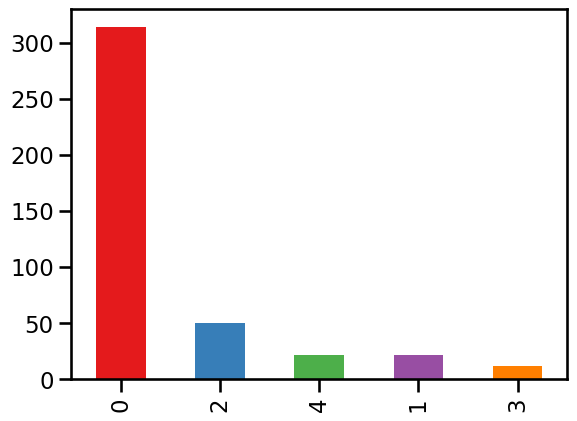
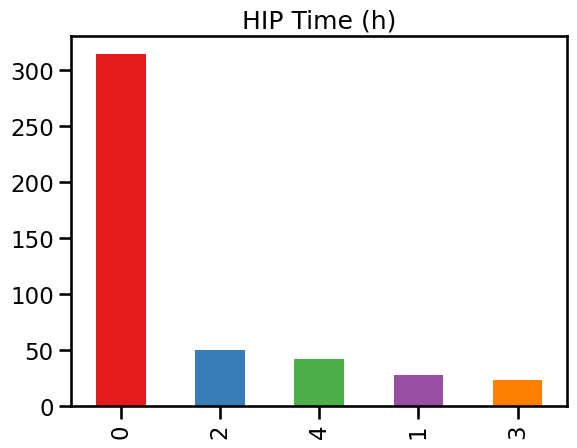
updated directory

diff --git a/exercises/GAN.py b/exercises/GAN.py
@@ -1,4 +1,5 @@
-from exercises.data_preparation import load_complete_data
+from exercises.data_preparation import load_complete_data, load_data
+from sklearn.preprocessing import MaxAbsScaler
 import tensorflow as tf
 import numpy as np
 import pandas as pd
@@ -7,10 +8,8 @@ import pandas as pd
 def make_generator_model(input_shape):
     model = tf.keras.Sequential([
         tf.keras.layers.Input(shape=input_shape),
-        tf.keras.layers.Dense(256, activation='relu', activity_regularizer='l2'),
-        tf.keras.layers.Dropout(0.3),
-        tf.keras.layers.Dense(256, activation='relu', activity_regularizer='l2'),
-        tf.keras.layers.Dropout(0.3),
+        tf.keras.layers.Dense(256, activation='relu'),
+        tf.keras.layers.Dense(256, activation='relu'),
         tf.keras.layers.Dense(input_shape[0], activation='relu')])
 
     return model
@@ -19,13 +18,14 @@ def make_discriminator_model(input_shape):
 
     model = tf.keras.Sequential([
         tf.keras.layers.Input(shape=input_shape),
-        tf.keras.layers.Dense(256, activation='relu', activity_regularizer='l2'),
+        tf.keras.layers.Dense(256, activation='relu'),
         tf.keras.layers.Dropout(0.3),
-        tf.keras.layers.Dense(256, activation='relu', activity_regularizer='l2'),
+        tf.keras.layers.Dense(256, activation='relu'),
         tf.keras.layers.Dropout(0.3),
         tf.keras.layers.Dense(1)])
 
     return model
+
 
 cross_entropy = tf.keras.losses.BinaryCrossentropy(from_logits=True)
 
@@ -38,50 +38,61 @@ def discriminator_loss(real_output, fake_output):
 def generator_loss(fake_output):
     return cross_entropy(tf.ones_like(fake_output), fake_output)
 
+def generate_synthetic_data(number_of_alloys=1000, prop='tot', epochs=2000):
 
-props = ['YieldStr(MPa)', 'Ductility (%)', 'Hardness (HV)']
-prop_ind = 0
-X, y, Z = load_complete_data()
-elem_col = X.columns
+    if prop == 'tot':
+        prop = ['YieldStr(MPa)', 'Ductility (%)', 'Hardness (HV)']
+        X, y, Z = load_complete_data()
+    else:
+        X, y, Z = load_data(col=prop)
+    elem_col = X.columns
+    other_cols = Z.columns
 
-y_max = y.max()
-y = y/y_max
+    y_max = y.max()
+    y = y/y_max
 
-X = pd.concat([X, y], axis=1)
-input_shape = X.shape[1:]
+    Z_max = Z.max()
+    Z_scaled = Z/Z_max
 
-generator = make_generator_model(input_shape)
-discriminator = make_discriminator_model(input_shape)
+    X = pd.concat([X, y, Z_scaled], axis=1)
+    input_shape = X.shape[1:]
 
-generator_optimizer = tf.keras.optimizers.Adam(1e-4)
-discriminator_optimizer = tf.keras.optimizers.Adam(1e-4)
+    generator = make_generator_model(input_shape)
+    discriminator = make_discriminator_model(input_shape)
 
-data = X.values.copy()
+    generator_optimizer = tf.keras.optimizers.Adam(1e-4)
+    discriminator_optimizer = tf.keras.optimizers.Adam(1e-4)
 
-for epoch in range(2000):
-    noise = np.random.random(data.shape)
+    data = X.values.copy()
 
-    with tf.GradientTape() as gen_tape, tf.GradientTape() as disc_tape:
-        generated_data = generator(noise, training=True)
+    for epoch in range(epochs):
+        noise = np.random.random(data.shape)
 
-        real_output = discriminator(data, training=True)
-        fake_output = discriminator(generated_data, training=True)
+        with tf.GradientTape() as gen_tape, tf.GradientTape() as disc_tape:
+            generated_data = generator(noise, training=True)
 
-        gen_loss = generator_loss(fake_output)
-        disc_loss = discriminator_loss(real_output, fake_output)
+            real_output = discriminator(data, training=True)
+            fake_output = discriminator(generated_data, training=True)
 
-    gradients_of_generator = gen_tape.gradient(gen_loss, generator.trainable_variables)
-    gradients_of_discriminator = disc_tape.gradient(disc_loss, discriminator.trainable_variables)
+            gen_loss = generator_loss(fake_output)
+            disc_loss = discriminator_loss(real_output, fake_output)
 
-    generator_optimizer.apply_gradients(zip(gradients_of_generator, generator.trainable_variables))
-    discriminator_optimizer.apply_gradients(zip(gradients_of_discriminator, discriminator.trainable_variables))
+        gradients_of_generator = gen_tape.gradient(gen_loss, generator.trainable_variables)
+        gradients_of_discriminator = disc_tape.gradient(disc_loss, discriminator.trainable_variables)
 
-    if epoch % 100 == 0:
-        print(f'Epoch: {epoch}, Generator Loss: {gen_loss}, Discriminator Loss: {disc_loss}')
+        generator_optimizer.apply_gradients(zip(gradients_of_generator, generator.trainable_variables))
+        discriminator_optimizer.apply_gradients(zip(gradients_of_discriminator, discriminator.trainable_variables))
 
-number_of_alloys = 1000
-generated_noise = np.random.random((number_of_alloys, input_shape[0]))
-generated_data = pd.DataFrame(generator.predict(generated_noise), columns=X.columns)
+        if epoch % 100 == 0:
+            print(f'Epoch: {epoch}, Generator Loss: {gen_loss}, Discriminator Loss: {disc_loss}')
 
-generated_alloys = generated_data[elem_col]
-generated_props = generated_data[props] * y_max
+
+    generated_noise = np.random.random((number_of_alloys, input_shape[0]))
+    generated_data = pd.DataFrame(generator.predict(generated_noise), columns=X.columns)
+
+    generated_alloys = generated_data[elem_col]
+    generated_alloys = generated_alloys.div(generated_alloys.sum(axis=1), axis=0)
+    generated_props = generated_data[prop] * y_max
+    generated_Z = generated_data[other_cols] * Z_max
+
+    return generated_alloys, generated_props, generated_Z

diff --git a/exercises/model_analysis.py b/exercises/model_analysis.py
@@ -2,64 +2,52 @@ import pandas as pd
 from sklearn.model_selection import train_test_split
 import numpy as np
 from exercises.regression_models import *
-from exercises.data_preparation import load_data
+from exercises.data_preparation import load_complete_data, load_data
 from sklearn.metrics import r2_score
 import matplotlib.pyplot as plt
 import tensorflow as tf
-
+import seaborn as sns
+sns.set_context('talk')
 props = ['YieldStr(MPa)', 'Ductility (%)', 'Hardness (HV)']
-prop_ind = 0
-X, y, _ = load_data(col=props[prop_ind])
+prop_ind = 1
+X, y, Z = load_complete_data()
 
+y = y[props[prop_ind]]
 y_max = y.max()
 y = y/y_max
 
 
-# X = pd.concat([X, Z_scaled], axis=1)
+X = pd.concat([X, Z], axis=1)
+r2_scores, r2_scores_train = regular_regression_models(X, y)
+r2_scores[r2_scores < 0] = 0
+r2_scores = r2_scores[r2_scores.sum(axis=1) > 0]
+
+r2_scores_train[r2_scores_train < 0] = 0
+sns.boxplot(r2_scores_train.T)
+plt.xticks(rotation=90)
+plt.title('Training R2 for ' + props[prop_ind])
+plt.savefig(f'figs/Regula_ML_train_{props[prop_ind]}.png', bbox_inches='tight')
+plt.show()
+
+sns.boxplot(r2_scores.T)
+plt.xticks(rotation=90)
+plt.title('Testing R2 for ' + props[prop_ind])
+plt.savefig(f'figs/Regula_ML_test_{props[prop_ind]}.png', bbox_inches='tight')
+plt.show()
+
+print(f'Max R2 for {props[prop_ind]} is {r2_scores.max().max()}')
+
+
+
 # X = Z_scaled.copy()
 X_train, X_test, y_train, y_test = train_test_split(X, y, test_size=0.3, random_state=42)
 
 input_shape = X.shape[1:]
 input_data_size = X.shape[0]
 
+model = tf_regression_model(input_shape=input_shape)
+history = model.fit(X_train, y_train, epochs=1000, validation_data=(X_test, y_test))
 
-model = tf.keras.Sequential([
-        tf.keras.layers.Input(shape=input_shape),
-        tf.keras.layers.Dense(1 + 1),
-        tfp.layers.DistributionLambda(
-            lambda t: tfp.distributions.Normal(loc=t[..., :1],
-                                 scale=1e-3 + tf.math.softplus(0.05 * t[..., 1:]))),
-])
-
-
-model = tf.keras.Sequential([
-        tf.keras.layers.Input(shape=input_shape),
-        tf.keras.layers.Dense(256, activation='relu', activity_regularizer='l2'),
-        tf.keras.layers.Dropout(0.3),
-        tf.keras.layers.Dense(256, activation='relu', activity_regularizer='l2'),
-        tf.keras.layers.Dropout(0.3),
-        tf.keras.layers.Dense(256, activation='relu', activity_regularizer='l2'),
-        tf.keras.layers.Dropout(0.3),
-        tf.keras.layers.Dense(256, activation='relu', activity_regularizer='l2'),
-        tf.keras.layers.Dropout(0.3),
-        tf.keras.layers.Dense(128, activation='relu', activity_regularizer='l2'),
-        tf.keras.layers.Dropout(0.3),
-        tf.keras.layers.Dense(128, activation='relu', activity_regularizer='l2'),
-        tf.keras.layers.Dropout(0.3),
-        # tf.keras.layers.Dense(1),
-        # tfp.layers.DistributionLambda(lambda t: tfp.distributions.Normal(loc=t, scale=1))
-        tfp.layers.DenseVariational(  # Probabilistic dense layer
-            units=1,  # Output dimension
-            make_posterior_fn=tfp.layers.util.default_mean_field_normal_fn(),
-            make_prior_fn=tfp.layers.default_multivariate_normal_fn,
-            kl_weight=1 / input_data_size,
-            activation=None,  # Choose activation function
-        ),
-        tfp.layers.DistributionLambda(lambda t: tfp.distributions.Normal(loc=t, scale=1))
-    ])
-
-negloglik = lambda y, rv_y: -rv_y.log_prob(y)
-model.compile(optimizer='Adam', loss=negloglik)
 
 for i in range(10):
 

diff --git a/exercises/model_fitting.py b/exercises/model_fitting.py
@@ -1,0 +1,52 @@
+from exercises.data_preparation import load_complete_data, load_data
+from exercises.GAN import generate_synthetic_data
+from exercises.regression_models import tf_regression_model, regular_regression_models
+import pandas as pd
+from sklearn.metrics import r2_score
+from sklearn.model_selection import train_test_split
+import matplotlib.pyplot as plt
+import seaborn as sns
+
+props = ['YieldStr(MPa)', 'Ductility (%)', 'Hardness (HV)']
+prop_ind = 0
+X, y, Z = load_complete_data()
+
+synthetic_alloys, synthetic_props, synthetic_Z = generate_synthetic_data(number_of_alloys=1000)
+
+X_total = pd.concat([X, synthetic_alloys], axis=0)
+Z_total = pd.concat([Z, synthetic_Z], axis=0)
+y_total = pd.concat([y, synthetic_props], axis=0)
+
+X_tot = pd.concat([X_total, Z_total], axis=1)
+
+y_prop = y_total[props[prop_ind]]
+y_max = y_prop.max()
+y_prop = y_prop/y_max
+
+r2_scores, r2_scores_train = regular_regression_models(X_total, y_prop)
+
+r2_scores[r2_scores < 0] = 0
+r2_scores = r2_scores[r2_scores.sum(axis=1) > 0]
+
+r2_scores_train[r2_scores_train < 0] = 0
+print(f'Max R2 for {props[prop_ind]} is {r2_scores.max().max()}')
+
+
+X_train, X_test, y_train, y_test = train_test_split(X_total, y_prop,
+                                                    test_size=0.3, random_state=42)
+
+input_shape = X_train.shape[1:]
+model = tf_regression_model(input_shape)
+history = model.fit(X_train, y_train,
+                    epochs=200, validation_data=(X_test, y_test))
+
+print('Training R2:', r2_score(y_train, model.predict(X_train)))
+print('Testing R2:', r2_score(y_test, model.predict(X_test)))
+
+plt.plot(history.epoch, history.history['loss'], c='k', label='Training')
+plt.plot(history.epoch, history.history['val_loss'], c='r', label='Testing')
+plt.title(props[prop_ind])
+plt.legend()
+plt.show()
+
+plt.savefig('Loss_curve', bbox_inches='tight')

diff --git a/exercises/regression_models.py b/exercises/regression_models.py
@@ -69,7 +69,7 @@ model_names = ["Linear Regression", "Ridge Regression", "Lasso Regression",
                "Bagging Regression", "K-Nearest Neighbors Regression",
                "Kernel Ridge Regression",
                "MLP Regression", "Passive Aggressive Regression", "RANSAC Regression",
-               "Huber Regression", "Histogram-based Gradient Boosting Regression",
+               "Huber Regression", "Histogram-based GBR",
                "Tweedie Regression", "Poisson Regression",
                 "Gaussian Process Regression",
                 "Voting Regression", "Theil-Sen Regression", "Extra Trees Regression"]

diff --git a/exercises/data_preparation.py b/exercises/data_preparation.py
@@ -5,7 +5,7 @@ def load_data(col=None):
     hea_data = pd.read_csv('data/hea_data.csv')
     cols = pd.Series(hea_data.columns)
     chem_cols = cols[30:133]
-    other_cols = cols[(cols[6] + cols[16:18] + cols[19] + cols[21:25]).index]
+    other_cols = cols[(cols[5:7] + cols[16:18] + cols[19] + cols[21:25]).index]
 
     elem_comp = hea_data[chem_cols]
     elem_comp_sum = (elem_comp > 0).sum(axis=0) > 50

diff --git a/exercises/data_visualization.py b/exercises/data_visualization.py
@@ -28,6 +28,7 @@ for col in Z.columns:
     value_counts = Z[col].value_counts()
     colors = sns.color_palette('Set1', len(value_counts))
     value_counts.plot(kind='bar', color=colors)
+    plt.title(col)
     # plt.xticks(rotation=90)
     if '/' in col:
         col = col.replace('/', '')
